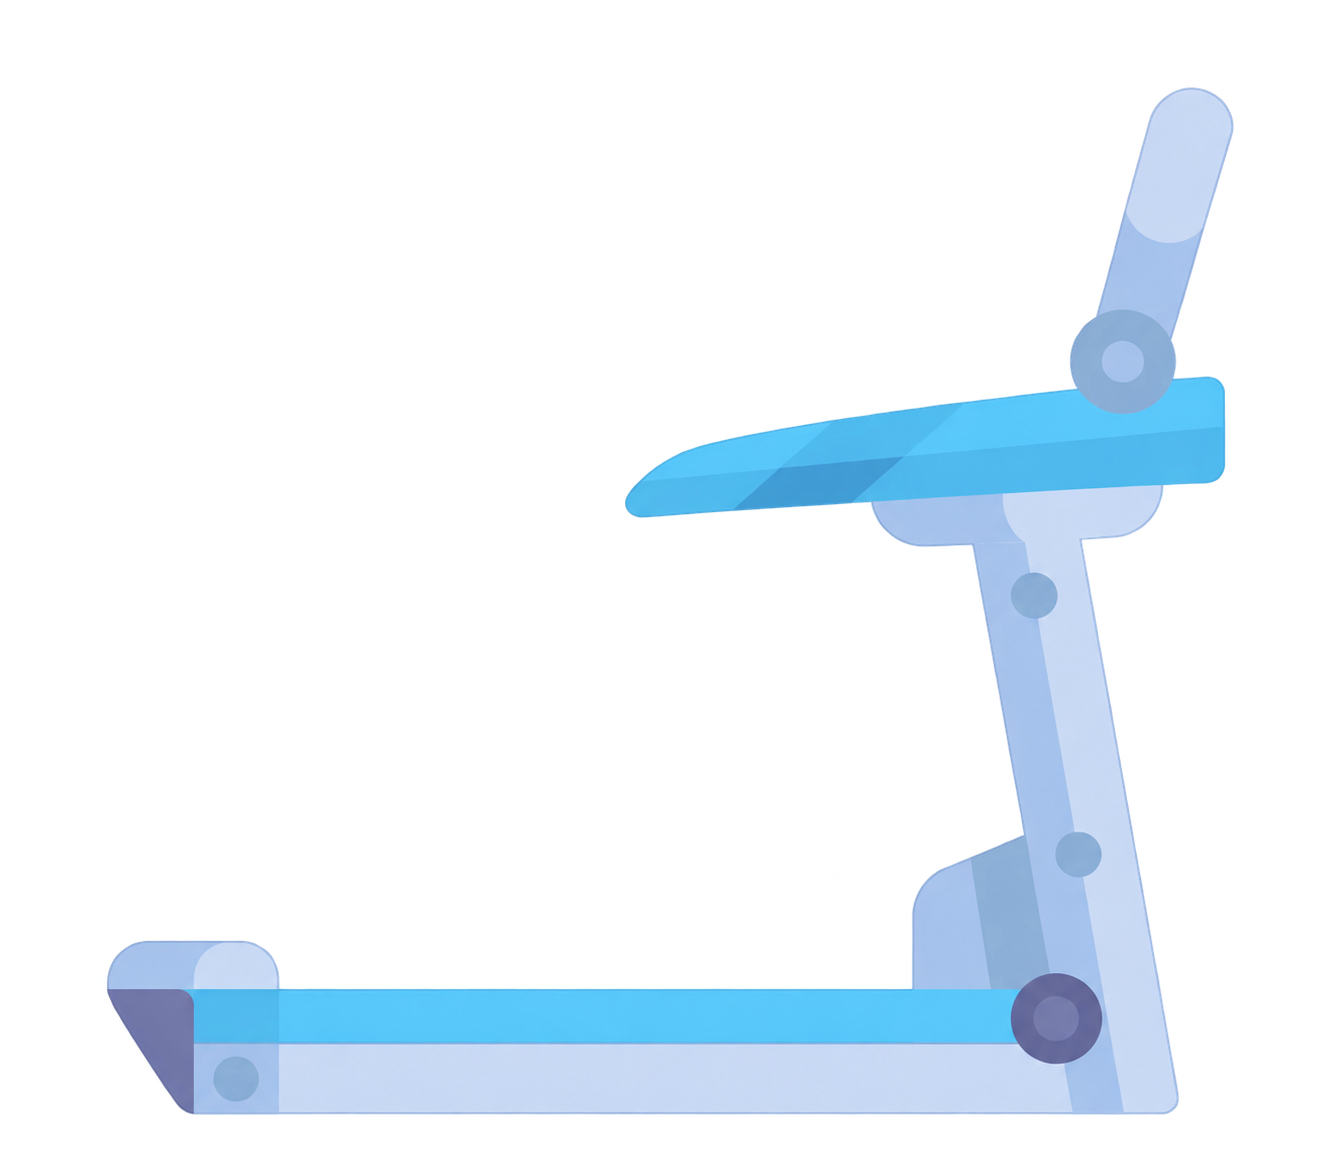
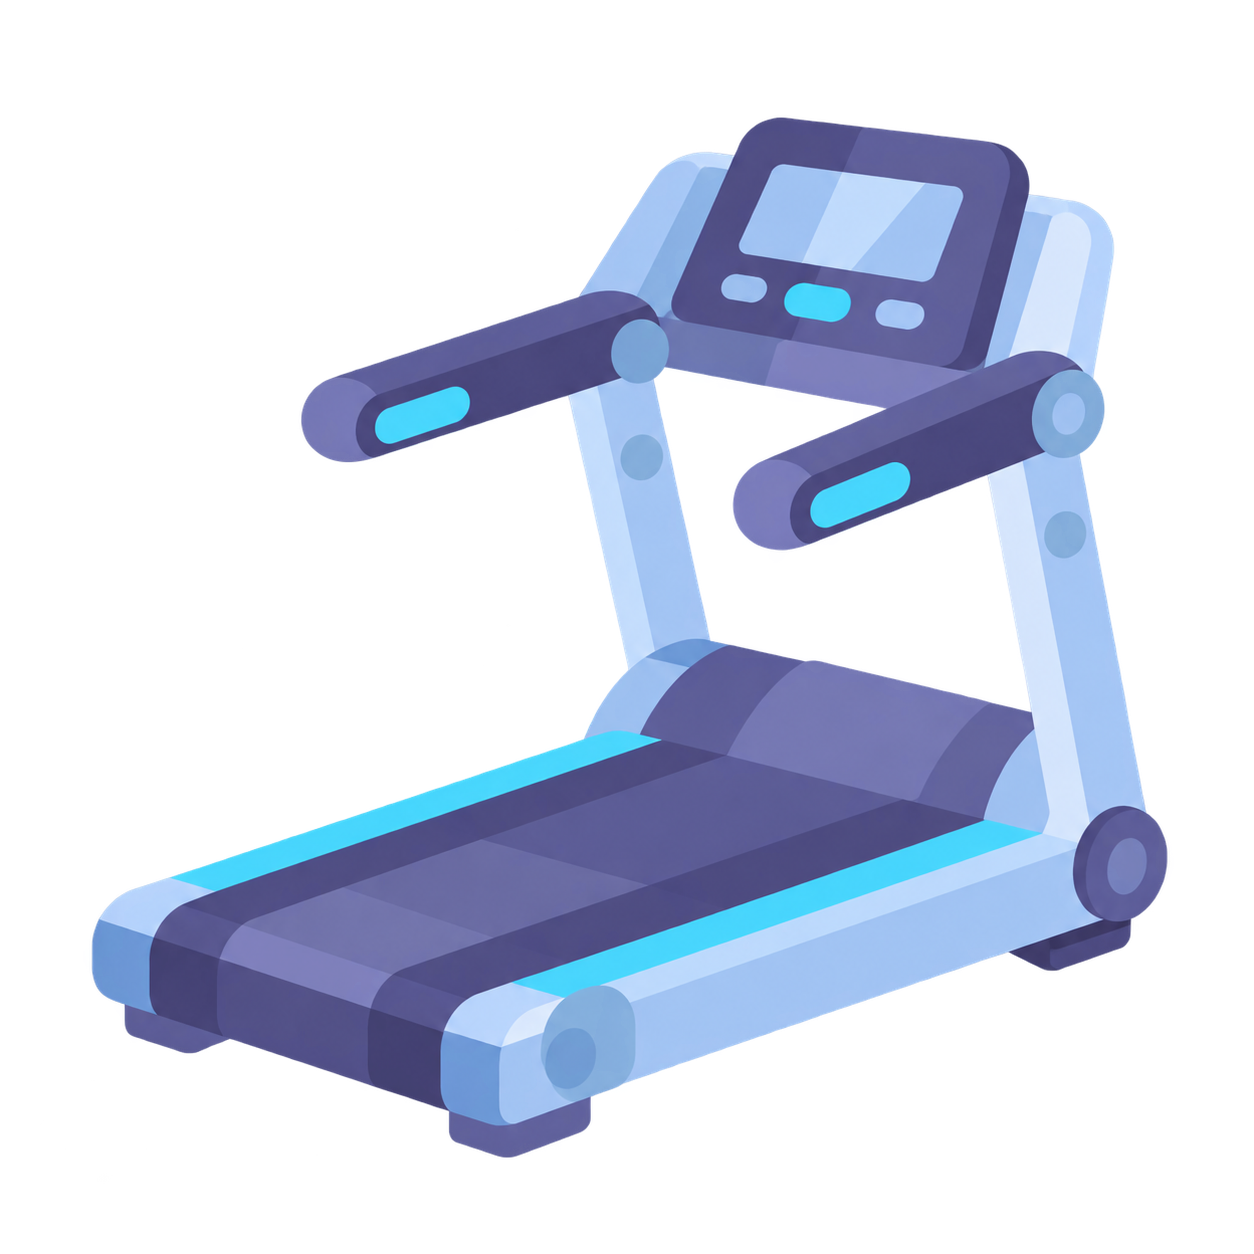
Wire in real art for squat rack, treadmill, yoga mat, and bench press
Rounds out the gym tier's real icon art: squat rack (with loaded
barbell and pull-up bar), a new treadmill angle, a rolled yoga mat, and
a loaded bench press all now render as their actual transparent PNGs
instead of hand-drawn box shapes. That's 7 of 10 gym items on real art
now (dumbbell, dumbbell rack, cable machine, treadmill, squat rack,
mat, bench) -- personal trainer and sauna still fall back to the
hand-drawn shapes.
Claude-Session: https://claude.ai/code/session_01Ac42gT9Fg4MqsVNPPdFv9h

diff --git a/assets/js/gym-tycoon.js b/assets/js/gym-tycoon.js
@@ -662,6 +662,9 @@
     dumbbellrack: 'assets/img/equipment/dumbbell-rack.png',
     cable: 'assets/img/equipment/cable.png',
     treadmill: 'assets/img/equipment/treadmill.png',
+    rack: 'assets/img/equipment/rack.png',
+    mat: 'assets/img/equipment/mat.png',
+    bench: 'assets/img/equipment/bench.png',
   };
   const itemSprites = {};
   Object.keys(ITEM_SPRITE_SRC).forEach((id) => {

diff --git a/gym-tycoon.html b/gym-tycoon.html
@@ -118,6 +118,6 @@
 <script src="assets/js/main.js?v=2"></script>
 <script src="assets/js/wallet.js?v=2"></script>
 <script src="assets/js/leaderboard.js?v=1"></script>
-<script src="assets/js/gym-tycoon.js?v=15"></script>
+<script src="assets/js/gym-tycoon.js?v=16"></script>
 </body>
 </html>
